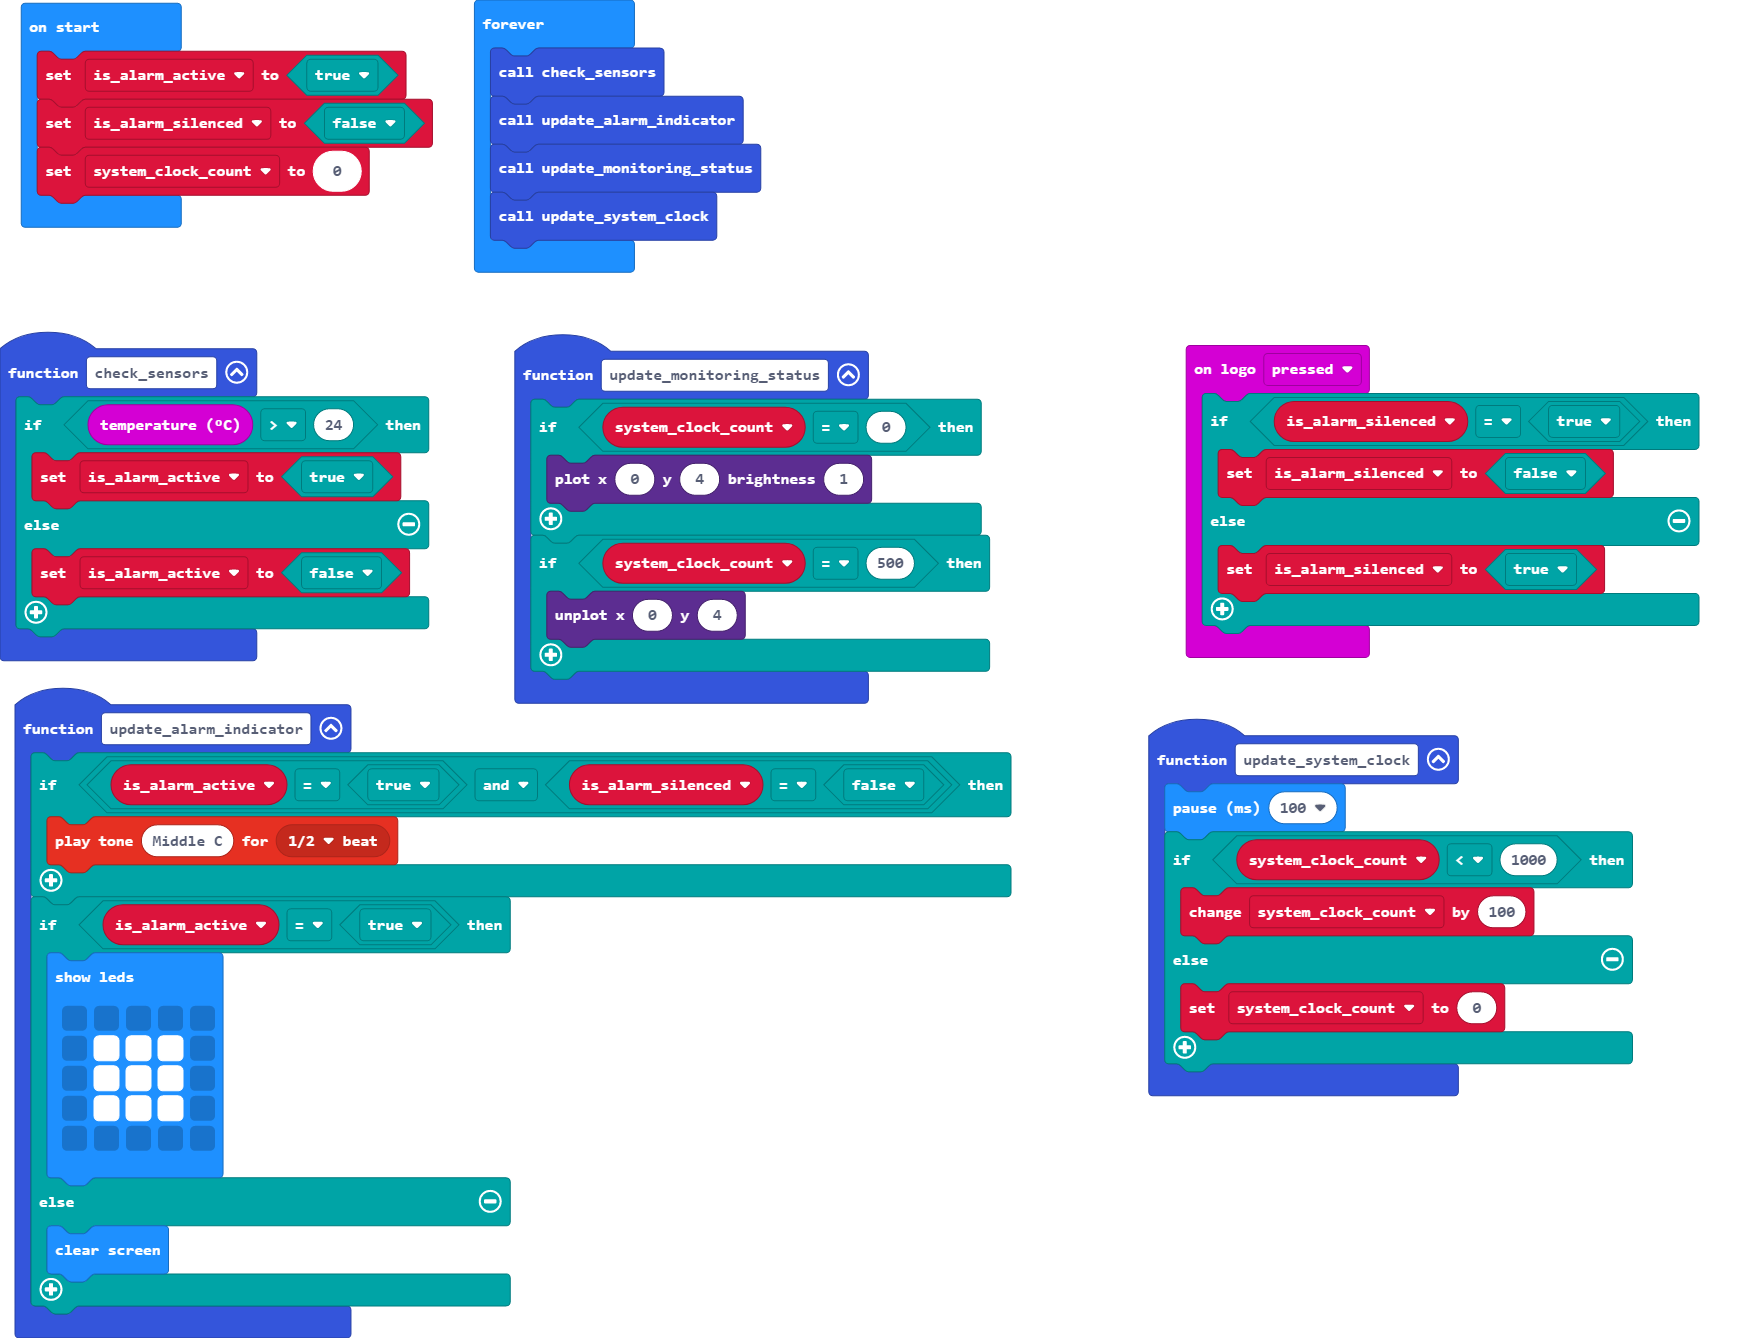
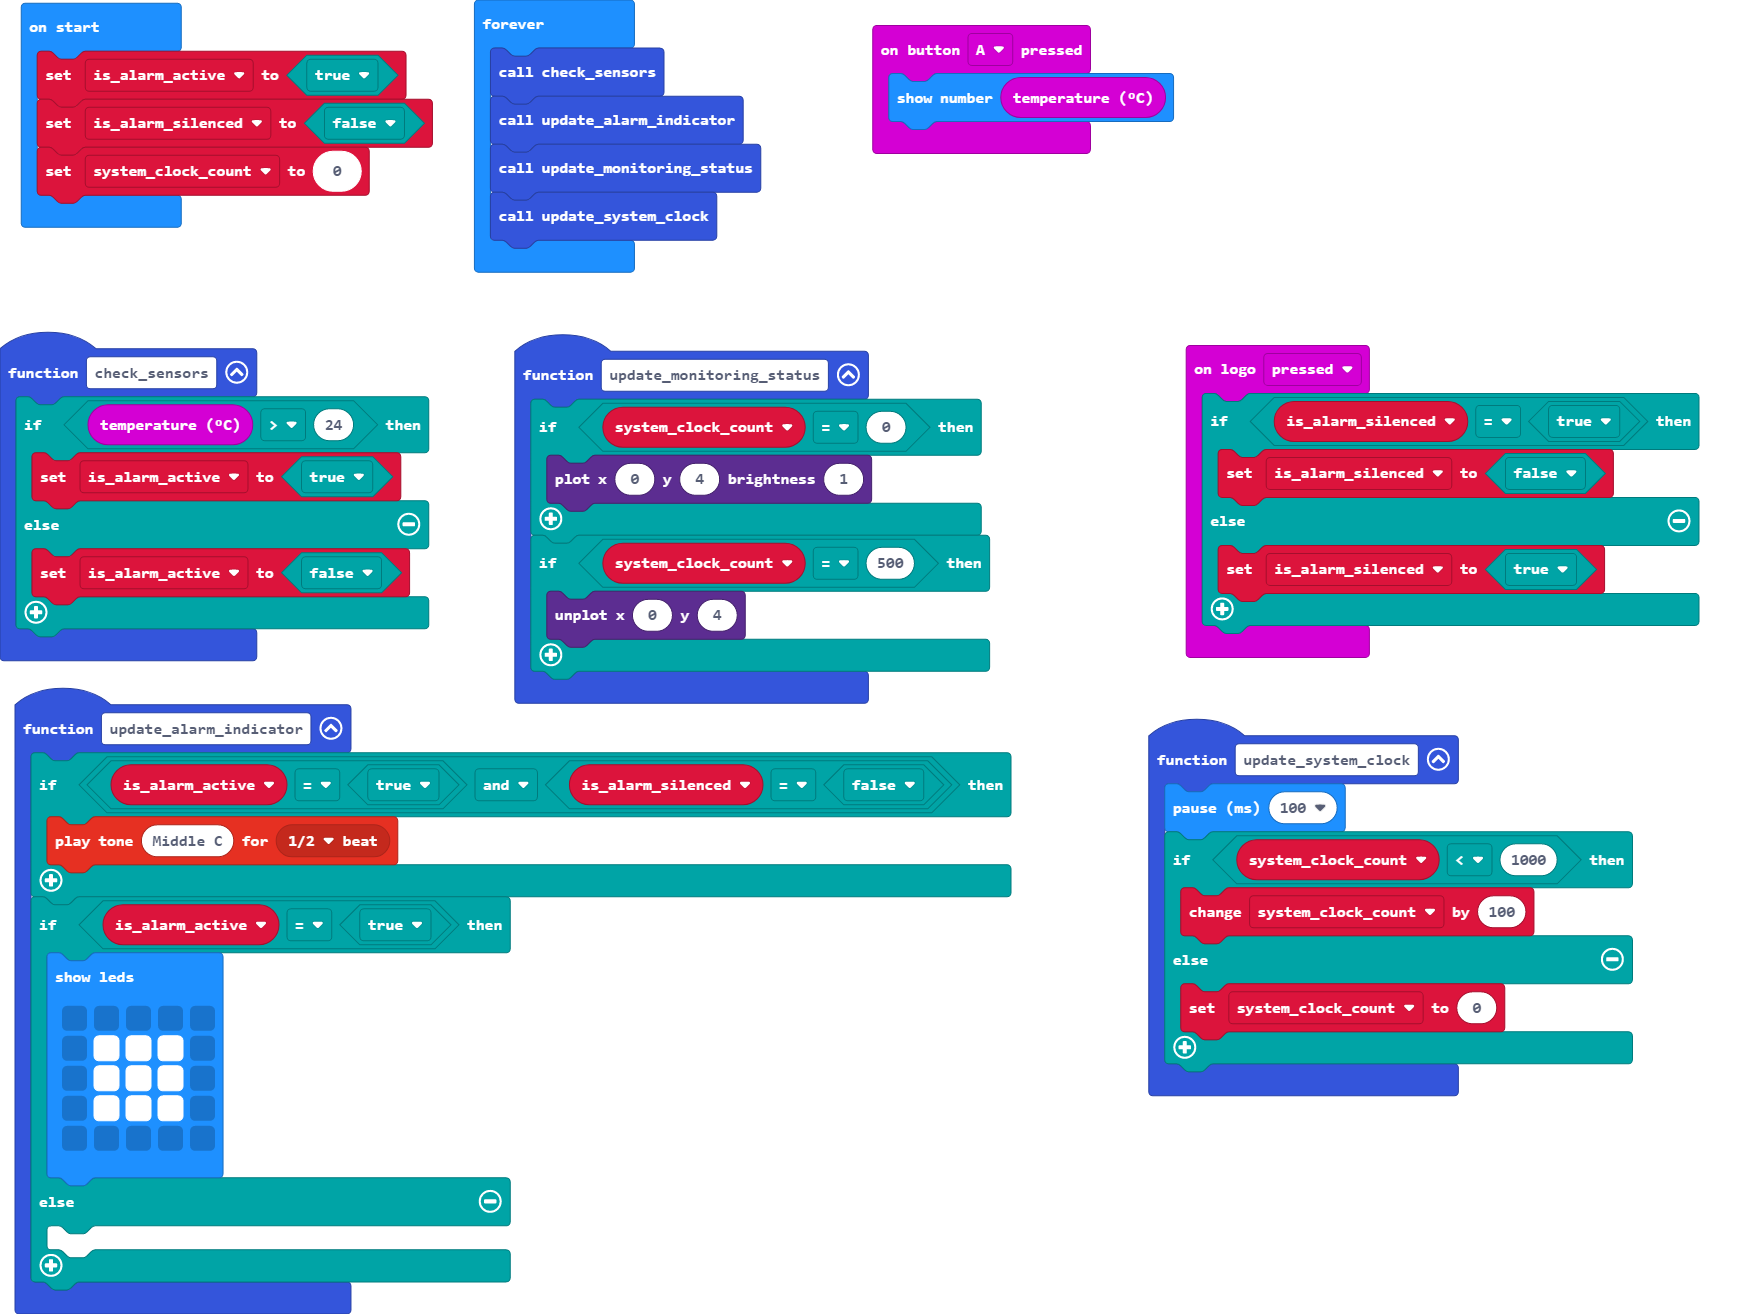
Update main.blocks, main.ts

diff --git a/main.ts b/main.ts
@@ -6,6 +6,9 @@ function update_system_clock () {
         system_clock_count = 0
     }
 }
+input.onButtonPressed(Button.A, function () {
+    basic.showNumber(input.temperature())
+})
 function update_monitoring_status () {
     if (system_clock_count == 0) {
         led.plotBrightness(0, 4, 1)
@@ -27,7 +30,7 @@ function update_alarm_indicator () {
             . . . . .
             `)
     } else {
-        basic.clearScreen()
+    	
     }
 }
 function check_sensors () {
